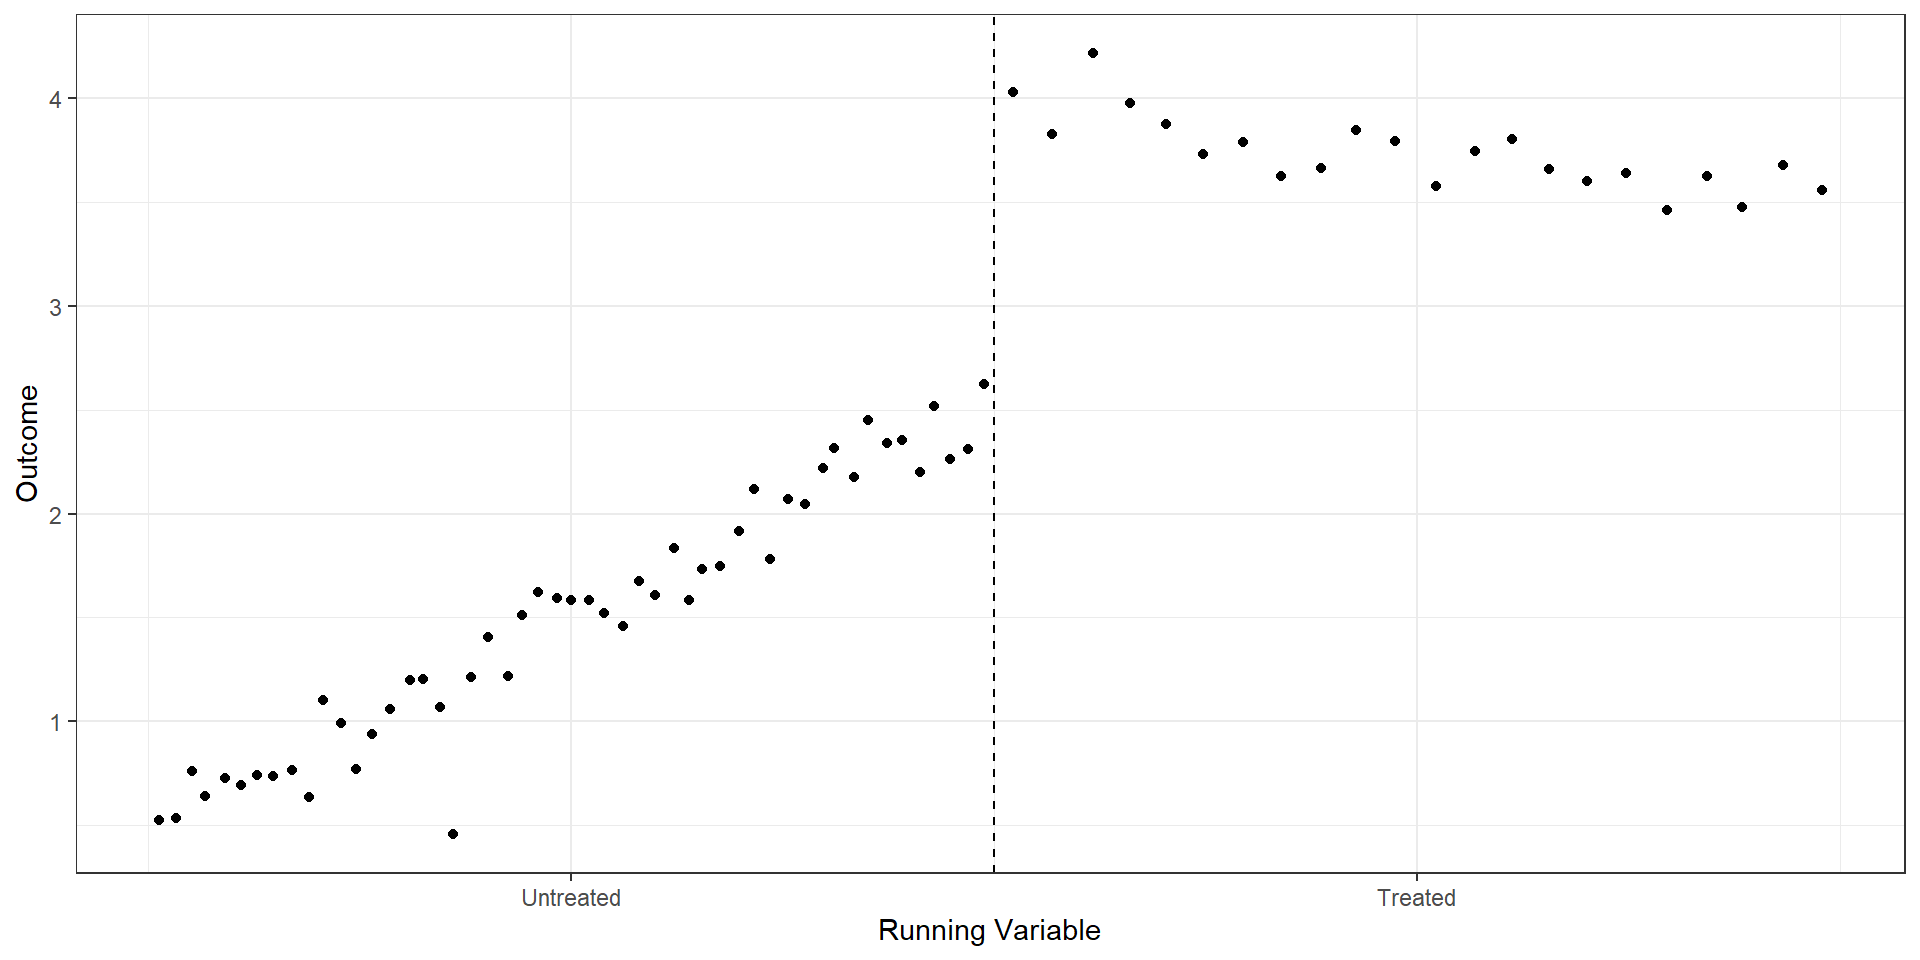
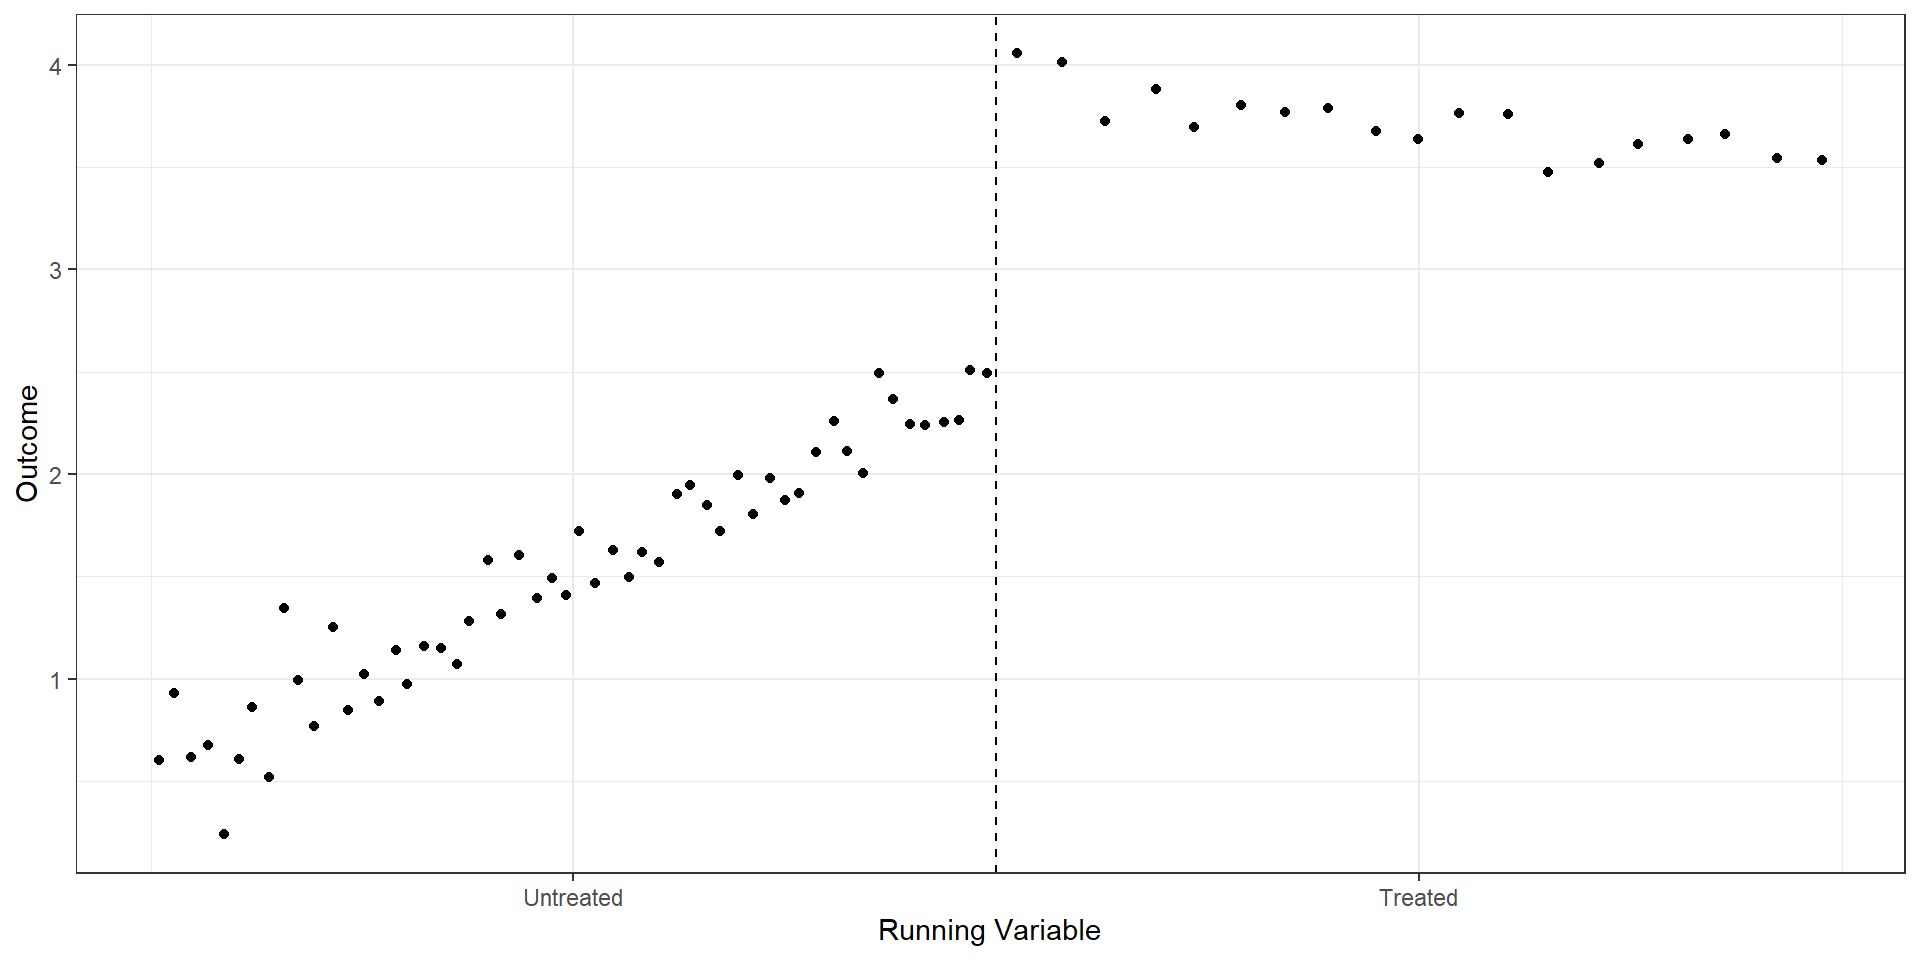
update rd notes

diff --git a/03-rd/rd-03.html b/03-rd/rd-03.html
@@ -511,8 +511,8 @@ Ian McCarthy | Emory University
 <section id="different-averages" class="slide level2">
 <h2>Different averages</h2>
 <ul>
-<li>Mean difference around threshold of 0.2, 4.01 - 2.33 = 1.68</li>
-<li>Mean overall difference, 3.75 - 1.48 = 2.27</li>
+<li>Mean difference around threshold of 0.2, 3.91 - 2.26 = 1.65</li>
+<li>Mean overall difference, 3.71 - 1.51 = 2.19</li>
 </ul>
 </section>
 <section id="more-generally" class="slide level2">
@@ -572,6 +572,9 @@ Ian McCarthy | Emory University
 <div class="fragment">
 <p>The binned averages helps to remove noise in the graph and can provide a cleaner look at the data. Just make sure that no bin includes observations above and below the cutoff!</p>
 </div>
+</section>
+<section class="slide level2">
+
 <div class="panel-tabset">
 <ul id="tabset-1" class="panel-tabset-tabby"><li><a data-tabby-default="" href="#tabset-1-1">R</a></li><li><a href="#tabset-1-2">Python</a></li><li><a href="#tabset-1-3">Output</a></li></ul>
 <div class="tab-content">
@@ -796,8 +799,8 @@ Ian McCarthy | Emory University
 <div id="tabset-2-3">
 <ul>
 <li>True effect: 1.5</li>
-<li>Standard linear regression with same slopes: 1.45</li>
-<li>RD (linear with same slopes): 1.6</li>
+<li>Standard linear regression with same slopes: 1.49</li>
+<li>RD (linear with same slopes): 1.69</li>
 </ul>
 </div>
 </div>
@@ -840,20 +843,20 @@ BW type                       mserd
 Kernel                   Triangular
 VCE method                       NN
 
-Number of Obs.                  504          496
-Eff. Number of Obs.             138          141
+Number of Obs.                  498          502
+Eff. Number of Obs.             126          121
 Order est. (p)                    1            1
 Order bias  (q)                   2            2
-BW est. (h)                   0.275        0.275
-BW bias (b)                   0.421        0.421
-rho (h/b)                     0.653        0.653
-Unique Obs.                     504          496
+BW est. (h)                   0.260        0.260
+BW bias (b)                   0.417        0.417
+rho (h/b)                     0.623        0.623
+Unique Obs.                     498          502
 
 =============================================================================
         Method     Coef. Std. Err.         z     P&gt;|z|      [ 95% C.I. ]       
 =============================================================================
-  Conventional     1.579     0.122    12.910     0.000     [1.339 , 1.819]     
-        Robust         -         -    10.884     0.000     [1.294 , 1.862]     
+  Conventional     1.634     0.124    13.223     0.000     [1.392 , 1.877]     
+        Robust         -         -    11.503     0.000     [1.381 , 1.949]     
 =============================================================================</code></pre>
 </div>
 </div>
@@ -1367,4 +1370,24 @@ Unique Obs.                     504          496
         const ref = bibliorefs[i];
         const citeInfo = findCites(ref);
         if (citeInfo) {
-     
+          tippyHover(citeInfo.el, function() {
+            var popup = window.document.createElement('div');
+            citeInfo.cites.forEach(function(cite) {
+              var citeDiv = window.document.createElement('div');
+              citeDiv.classList.add('hanging-indent');
+              citeDiv.classList.add('csl-entry');
+              var biblioDiv = window.document.getElementById('ref-' + cite);
+              if (biblioDiv) {
+                citeDiv.innerHTML = biblioDiv.innerHTML;
+              }
+              popup.appendChild(citeDiv);
+            });
+            return popup.innerHTML;
+          });
+        }
+      }
+    });
+    </script>
+    
+
+</body></html>
